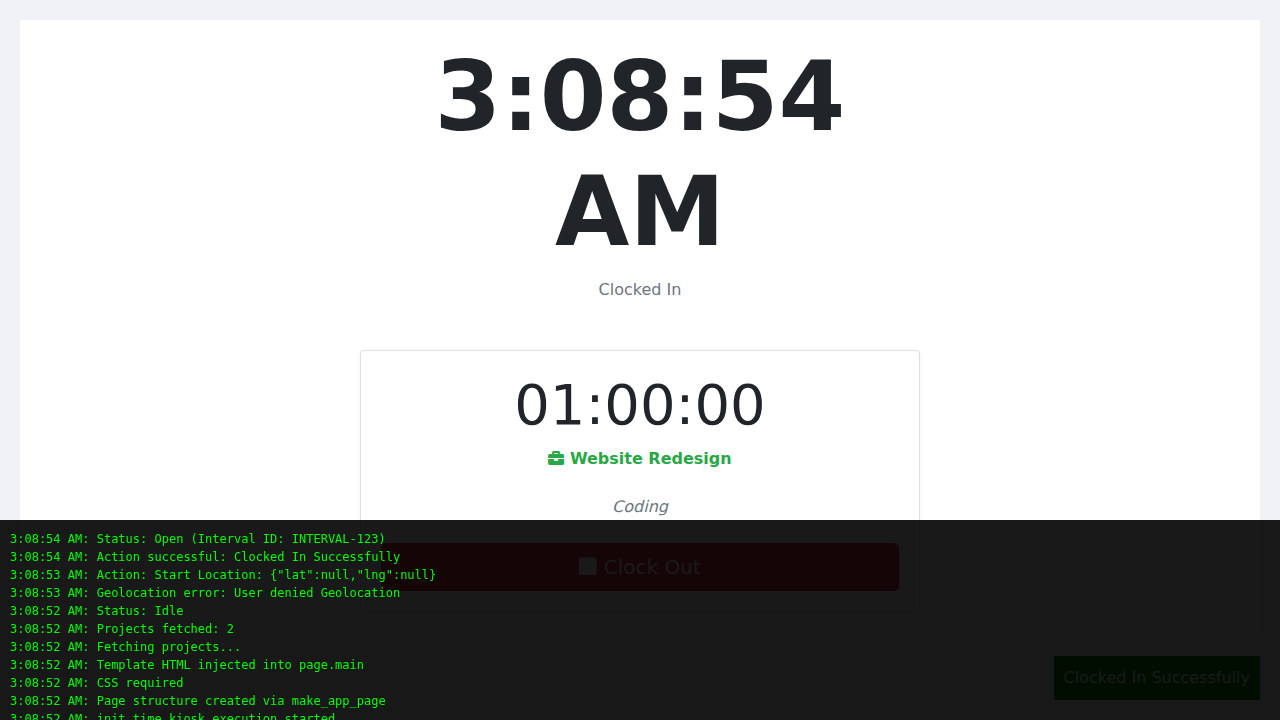
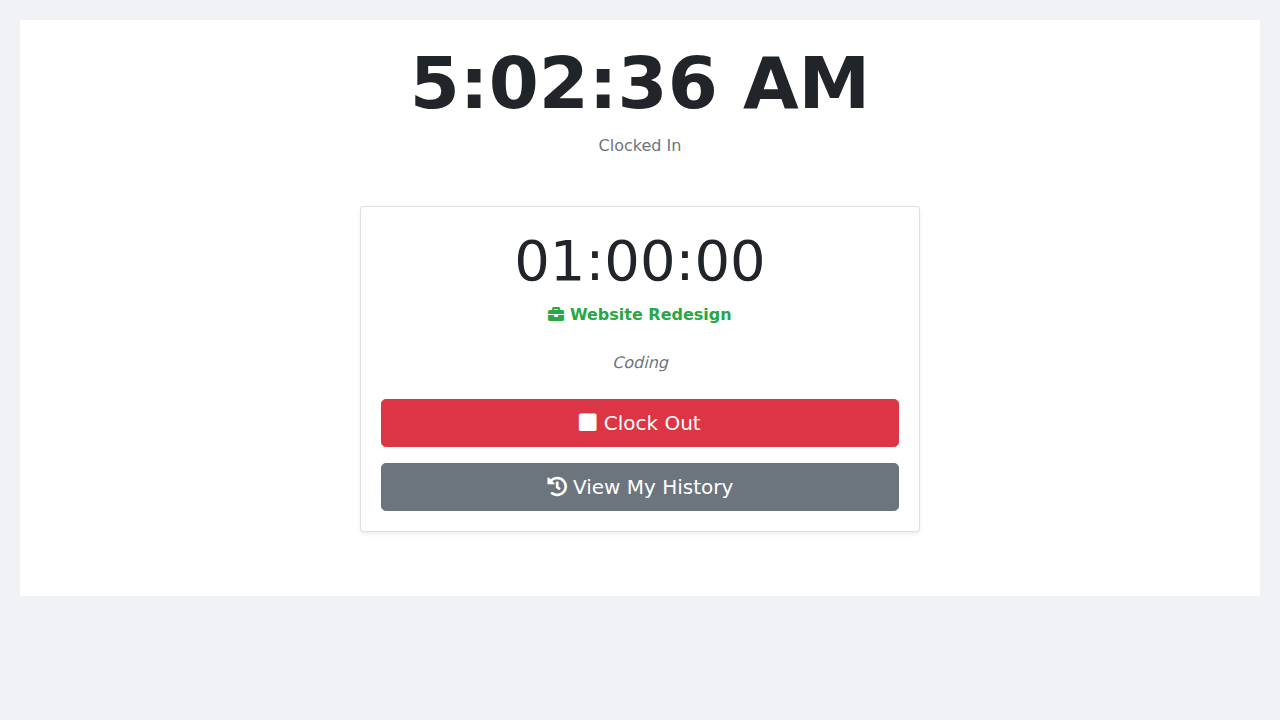
Fix phantom 'Clocked In' state in Time Kiosk
Modified `time_kiosk.js` to strictly check for a valid Job Interval name in the `get_current_status` response. This prevents the "Ready to Work" state from being interpreted as "Clocked In" when the API returns an employee record without an active job.

Added unit test `test_time_kiosk_status.py` to document and verify the backend API behavior.
Added frontend verification script `verify_time_kiosk.py` and updated mock `mock_time_kiosk.html`.

diff --git a/frontend_verification/mock_time_kiosk.html b/frontend_verification/mock_time_kiosk.html
@@ -9,7 +9,6 @@
     <script src="https://code.jquery.com/jquery-3.6.0.min.js"></script>
     <style>
         body { padding: 20px; background-color: #f0f2f5; }
-        /* Mock Frappe Page Wrapper */
         .page-container { background: white; min-height: 80vh; }
     </style>
 </head>
@@ -27,34 +26,31 @@
                     const $main = $('<div class="page-main"></div>');
                     $wrapper.append($main);
                     return { main: $main[0] };
+                },
+                form: {
+                    make_control: function(opts) {
+                        console.log("Mock make_control", opts);
+                        const $parent = opts.parent;
+                        // Render a simple input for the Link field mock
+                        const $input = $('<input type="text" class="form-control" data-fieldname="' + opts.df.fieldname + '" placeholder="' + opts.df.placeholder + '">');
+                        $parent.append($input);
+
+                        return {
+                            df: opts.df,
+                            get_value: () => $input.val(),
+                            set_value: (val) => $input.val(val),
+                            refresh: () => {}
+                        };
+                    }
                 }
             },
-            require: function(path) {
-                console.log("Mock require:", path);
-                // In real app this loads CSS/JS. We can ignore or manually link CSS.
-                if (path.endsWith('.css')) {
-                    const link = document.createElement('link');
-                    link.rel = 'stylesheet';
-                    // Adjust path for mock environment if needed, or just rely on manual inclusion
-                    // For this verification, I'll inject the css content directly via playwright or just ignore if bootstrap is enough
-                }
-            },
+            require: function(path) {},
             call: function(opts) {
                 console.log("Mock frappe.call:", opts.method);
 
                 // MOCK API RESPONSES
-                if (opts.method === 'erpnext_enhancements.api.time_kiosk.get_projects') {
-                    setTimeout(() => {
-                        opts.callback({
-                            message: [
-                                { name: 'PROJ-001', project_name: 'Website Redesign' },
-                                { name: 'PROJ-002', project_name: 'ERP Implementation' }
-                            ]
-                        });
-                    }, 100);
-                } else if (opts.method === 'erpnext_enhancements.api.time_kiosk.get_current_status') {
+                if (opts.method === 'erpnext_enhancements.api.time_kiosk.get_current_status') {
                      setTimeout(() => {
-                        // Simulate IDLE initially
                         if (window.mockStatus === 'Open') {
                              opts.callback({
                                 message: {
@@ -62,11 +58,13 @@
                                     project: 'PROJ-001',
                                     project_title: 'Website Redesign',
                                     description: 'Coding',
-                                    start_time: new Date(new Date().getTime() - 3600000).toISOString() // 1 hour ago
+                                    start_time: new Date(new Date().getTime() - 3600000).toISOString(),
+                                    employee: 'EMP-001'
                                 }
                             });
                         } else {
-                            opts.callback({ message: null });
+                            // BUG REPRODUCTION: Return employee even when idle
+                            opts.callback({ message: { employee: 'EMP-001' } });
                         }
                     }, 100);
                 } else if (opts.method === 'erpnext_enhancements.api.time_kiosk.log_time') {
@@ -78,18 +76,11 @@
                             window.mockStatus = 'Idle';
                              opts.callback({ message: { status: 'success', message: 'Clocked Out Successfully' } });
                         }
-                    }, 500);
+                    }, 200);
                 }
             },
             msgprint: function(msg) { alert(msg); },
-            show_alert: function(msg) {
-                console.log("Alert:", msg);
-                const indicator = msg.indicator || 'blue';
-                const text = msg.message || msg;
-                const $alert = $(`<div style="position:fixed; bottom:20px; right:20px; padding:10px; background:${indicator}; color:white;">${text}</div>`);
-                $('body').append($alert);
-                setTimeout(() => $alert.remove(), 3000);
-            }
+            show_alert: function(msg) { console.log("Alert:", msg); }
         };
 
         // Initial Mock State
@@ -97,14 +88,12 @@
 
     </script>
 
-    <!-- Load the rewritten script -->
+    <!-- Load the actual script -->
     <script src="../erpnext_enhancements/erpnext_enhancements/page/time_kiosk/time_kiosk.js"></script>
 
     <script>
-        // Trigger initialization manually
         $(document).ready(function() {
             const wrapper = document.getElementById('frappe-app-wrapper');
-            // Check which key it registered under
             if (frappe.pages['time-kiosk']) {
                 frappe.pages['time-kiosk'].on_page_load(wrapper);
             }

diff --git a/erpnext_enhancements/erpnext_enhancements/page/time_kiosk/time_kiosk.js b/erpnext_enhancements/erpnext_enhancements/page/time_kiosk/time_kiosk.js
@@ -266,7 +266,7 @@ const init_time_kiosk = function(wrapper) {
                 method: 'erpnext_enhancements.api.time_kiosk.get_current_status',
                 callback: (r) => {
                     setLoading(false);
-                    if (r.message) {
+                    if (r.message && r.message.name) {
                         kioskState.status = 'Open';
                         kioskState.currentInterval = r.message;
                         debug_log("Status: Open (Interval ID: " + r.message.name + ")");

diff --git a/erpnext_enhancements/tests/test_time_kiosk_status.py b/erpnext_enhancements/tests/test_time_kiosk_status.py
@@ -1,0 +1,60 @@
+import unittest
+from unittest.mock import MagicMock, patch
+import sys
+import os
+
+# Add current directory to path so we can import the package
+sys.path.append(os.getcwd())
+
+# Mock frappe and its submodules before importing the module under test
+frappe_mock = MagicMock()
+# Make whitelist a passthrough decorator
+frappe_mock.whitelist = lambda: lambda f: f
+
+sys.modules['frappe'] = frappe_mock
+sys.modules['frappe.utils'] = MagicMock()
+
+# Now import the module to test
+from erpnext_enhancements.api.time_kiosk import get_current_status
+
+class TestTimeKioskStatus(unittest.TestCase):
+    def setUp(self):
+        # Reset mocks before each test
+        frappe_mock.reset_mock()
+        # Restore whitelist behavior just in case (though it's set on module level)
+        frappe_mock.whitelist = lambda: lambda f: f
+        frappe_mock.session.user = "test@example.com"
+
+    def test_get_current_status_idle(self):
+        """
+        Test that get_current_status returns a dict with just 'employee'
+        when the employee exists but has no open job interval.
+        This confirms the response is 'truthy' which confuses the frontend.
+        """
+        # Setup: Employee exists
+        frappe_mock.db.get_value.side_effect = self.mock_get_value_idle
+
+        # Execute
+        result = get_current_status()
+
+        # Verify
+        self.assertIsNotNone(result)
+        self.assertIn("employee", result)
+        self.assertEqual(result["employee"], "EMP-001")
+        # Ensure no interval data is present
+        self.assertNotIn("name", result)
+        self.assertNotIn("project", result)
+
+        # This confirms that 'if (result)' in JS would be true, leading to the bug
+        self.assertTrue(bool(result))
+
+    def mock_get_value_idle(self, doctype, filters, fieldname=None, as_dict=False):
+        if doctype == "Employee":
+            return "EMP-001"
+        if doctype == "Job Interval":
+            # Simulate no open interval found
+            return None
+        return None
+
+if __name__ == '__main__':
+    unittest.main()

diff --git a/frontend_verification/verify_time_kiosk.py b/frontend_verification/verify_time_kiosk.py
@@ -6,8 +6,6 @@ def run():
         browser = p.chromium.launch(headless=True)
         page = browser.new_page()
 
-        # Load the mock HTML file
-        # We need absolute path
         cwd = os.getcwd()
         file_path = f"file://{cwd}/frontend_verification/mock_time_kiosk.html"
         print(f"Loading: {file_path}")
@@ -15,18 +13,18 @@ def run():
         page.goto(file_path)
 
         # 1. Verify Initial Load (Ready to Work)
+        # It should be "Ready to Work" despite receiving {employee: ...}
         print("Verifying Initial State...")
         page.wait_for_selector("#tk-status-text")
         expect(page.locator("#tk-status-text")).to_have_text("Ready to Work")
         expect(page.locator("#tk-btn-clock-in")).to_be_visible()
-        expect(page.locator("#tk-project-select")).to_be_visible()
 
-        # Wait for projects to load (mock delay 100ms)
-        page.wait_for_timeout(500)
+        # Verify Link field mock exists
+        page.wait_for_selector("input[data-fieldname='project']")
 
-        # Select Project
+        # Select Project (simulate filling the link field)
         print("Selecting Project...")
-        page.select_option("#tk-project-select", "PROJ-001")
+        page.fill("input[data-fieldname='project']", "PROJ-001")
 
         # Enter Note
         page.fill("#tk-note-input", "Testing verify script")
@@ -36,14 +34,12 @@ def run():
         page.click("#tk-btn-clock-in")
 
         # Wait for "Clocked In" state
-        # The mock API takes 500ms, then fetchStatus takes 100ms.
         page.wait_for_timeout(1000)
 
         print("Verifying Clocked In State...")
         expect(page.locator("#tk-status-text")).to_have_text("Clocked In")
         expect(page.locator("#tk-btn-clock-in")).not_to_be_visible()
         expect(page.locator("#tk-btn-clock-out")).to_be_visible()
-        expect(page.locator("#tk-active-project-name")).to_have_text("Website Redesign")
 
         # Take Screenshot
         screenshot_path = f"{cwd}/frontend_verification/time_kiosk_verified.png"
